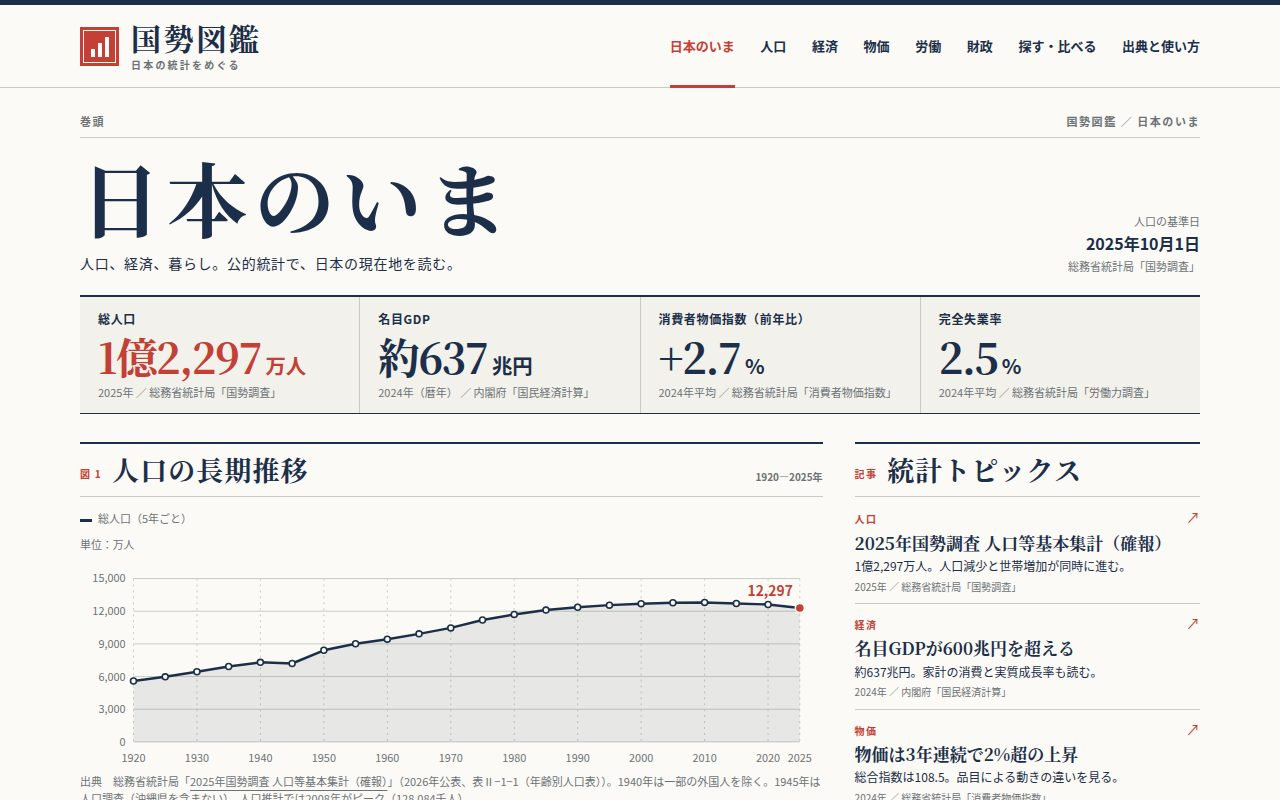
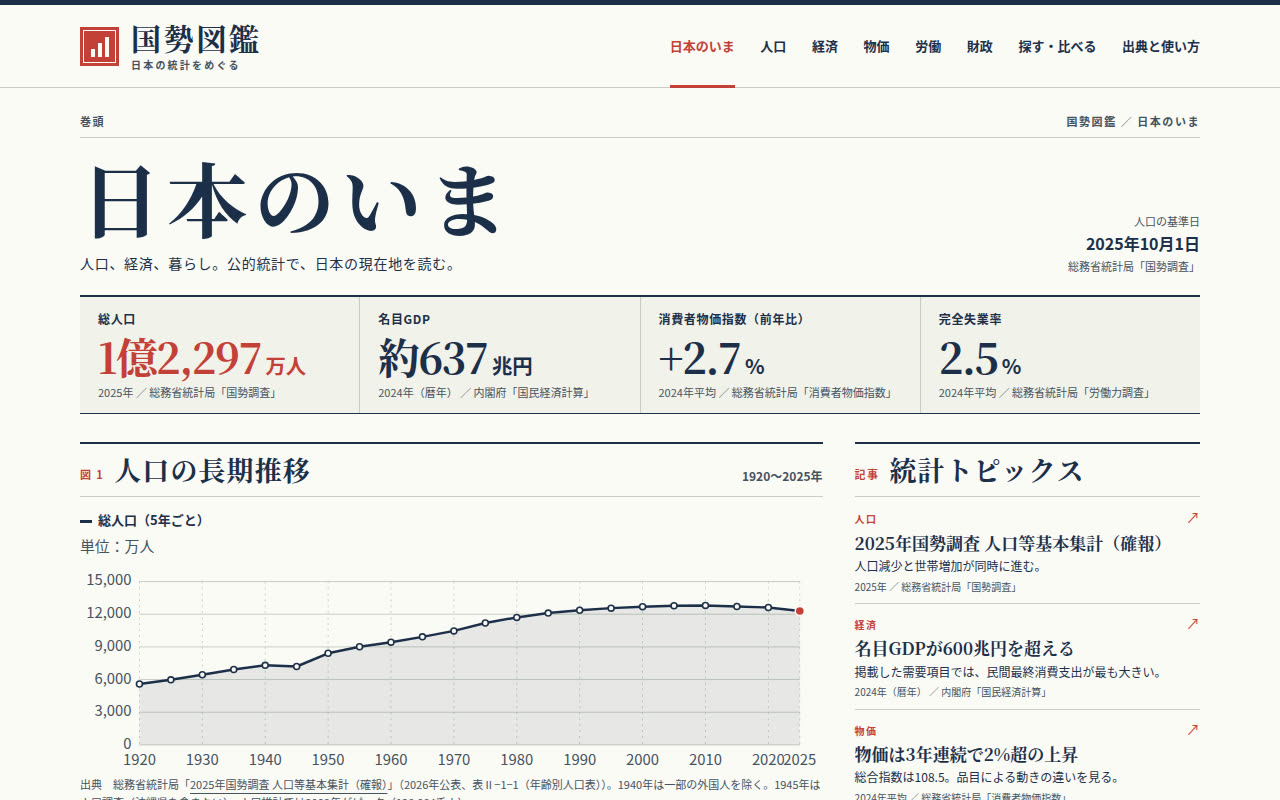
国勢図鑑: Japanese national statistics portal for make.fun bounty
Built by an AI agent (Codex gpt-6.2-sol) in a fresh session after the
competition opened; reviewed by gpt-6.2-astra before submission.

diff --git a/app/views.js b/app/views.js
@@ -24,22 +24,27 @@ const table = (headers, rows, cls='') => `<table class="${cls}"><thead><tr>${hea
 
 export function home() {
   const brief = [f.population, populationBrief+'<span class="unit">万人</span>'];
+  const topicSummaries = [
+    '人口減少と世帯増加が同時に進む。',
+    '掲載した需要項目では、民間最終消費支出が最も大きい。',
+    topics[2][3],
+  ];
   const descriptions = ['国勢調査と人口動態','国内総生産と家計消費','消費者物価と品目別動向','雇用・求人・賃金','国の一般会計予算','指標検索と都道府県比較','公表資料と統計の読み方'];
   return `${heading(0,'日本のいま','人口、経済、暮らし。公的統計で、日本の現在地を読む。','人口の基準日<br><strong>'+censusReferenceDate+'</strong><br>'+sources.census)}
     ${strip([ {...brief[0],note:''}, brief[1]], {...f.gdp,note:''}, f.inflation, f.unemployment)}
     <div class="editorial-grid">
       <section class="chart-panel">
-        ${section('図 1','人口の長期推移','1920—2025年')}
+        ${section('図 1','人口の長期推移','1920〜2025年')}
         ${legend('総人口（5年ごと）')}
         ${line({points:populationTrend.map(([year, count]) => [year, count / 10000]),
           ticks:[0,3000,6000,9000,12000,15000],yearStep:10,unit:'万人',
-          label:'1920年から2025年の総人口、5年ごとに22時点。',endpoint:format(Math.round(populationTrend.at(-1)[1] / 10000))})}
+          label:'1920年から2025年の総人口、5年ごとに22時点。'})}
         ${note(`出典　総務省統計局「<a href="${censusOutline}">${censusRelease}</a>」（2026年公表、${populationTrendTable}）。1940年は${populationTrendScope[1940]}。1945年は${populationTrendScope[1945]}。人口推計では${populationPeak.year}がピーク（${populationPeak.value}${populationPeak.unit}）。`)}
       </section>
       <aside class="topics">
         ${section('記事','統計トピックス')}
-        ${topics.map(([href,tag,title,summary,ref]) => `<a href="#${href}" class="topic"><span class="tag">${tag}</span><span class="arrow" aria-hidden="true">↗</span>
-          <h3>${title}</h3><p>${summary}</p>${note(ref)}</a>`).join('')}
+        ${topics.map(([href,tag,title,,ref], i) => `<a href="#${href}" class="topic"><span class="tag">${tag}</span><span class="arrow" aria-hidden="true">↗</span>
+          <h3>${title}</h3><p>${topicSummaries[i]}</p>${note(i === 1 ? source(f.gdp) : i === 2 ? source(f.inflation) : ref)}</a>`).join('')}
       </aside>
     </div>
     <section class="block">${section('目次','分野から読む')}
@@ -59,18 +64,24 @@ export function population() {
   const latestAgeShares = [f.children, f.workingAge, f.older]
     .map(item => `${item.name.replace('人口割合', '')} ${item.value}${item.unit}`).join('、');
   return `${heading(1,'人口','人口の減少と高齢化を、国勢調査・人口動態統計からたどる。',censusDate)}
-    ${strip(f.population,f.households,f.older)}
+    <div class="chapter-findings">
+      <p><strong>総人口が減少</strong><span>${f.population.note}</span></p>
+      <p><strong>総世帯数が増加</strong><span>${f.households.note}</span></p>
+    </div>
     <div class="editorial-grid chapter-grid">
       <section class="chart-panel">
-        ${section('図 1','年齢構成','1950—2025年')}
-        <div class="legend"><span class="legend-young">0〜14歳</span><span>15〜64歳</span><span class="legend-accent">65歳以上</span></div>
+        ${section('図 1','年齢構成','1950〜2025年')}
+        <div class="age-key">
+          <span>構成比（${f.older.year}）</span>
+          <div class="legend">${[f.children, f.workingAge, f.older].map((item, i) =>
+            `<span class="${['legend-young', '', 'legend-accent'][i]}">${item.name.replace('人口割合', '')} <strong>${item.value}${item.unit}</strong></span>`).join('')}</div>
+        </div>
         ${ageComposition(ageTrend, latestAgeShares)}
-        <p class="annotation">${f.older.year}の構成比　${latestAgeShares}</p>
         ${note(`出典　総務省統計局「<a href="${censusOutline}">${censusRelease}</a>」（2026年公表、表Ⅱ−1−1）。2015年以降は不詳補完値。構成比の分母は年齢が判明している人口。`)}
       </section>
       <aside class="side-panel">
-        ${section('表 1','人口と世帯の内訳')}
-        ${table(['区分','2025年実数','構成比','2020年比（増減率）'],
+        ${section('表 1','人口と世帯の内訳','2025年')}
+        ${table(['区分','実数','構成比','2020年比（増減率）'],
           populationBreakdown.map(([label, current, previous, unit, denominator]) => [
             label,
             `${denominator === null ? current.toFixed(2) : format(current)}<span class="unit">${unit}</span>`,
@@ -81,12 +92,12 @@ export function population() {
         <p class="annotation">${onlyTokyo}</p>
       </aside>
     </div>
-    <section class="block">${section('表 2','出生と死亡','2024年 人口動態統計')}${strip(f.births,f.deaths,f.fertility)}</section>
+    <section class="block">${section('表 2','出生と死亡','2024年')}${strip(f.births,f.deaths,f.fertility)}</section>
     <section class="block">${section('表 3','都道府県人口ランキング','2020年国勢調査')}
       <div class="table-controls"><label>都道府県を検索 <input id="pref-search" type="search" placeholder="例：東京" aria-controls="pref-rows"></label></div>
       <table class="numeric"><thead><tr><th scope="col">順位</th><th scope="col">都道府県</th><th scope="col" id="population-sort" aria-sort="descending"><button type="button" id="sort-prefs">人口（人） <span>↓</span></button></th><th scope="col">調査年</th></tr></thead>
       <tbody id="pref-rows">${prefectureRows()}</tbody></table>
-      ${note(prefectureYear+' ／ '+sources.census+'。'+onlyTokyo+' '+f.ibaraki.year+'の茨城県は'+f.ibaraki.value+f.ibaraki.unit+'。')}
+      ${note(prefectureYear+' ／ '+sources.census+'。'+f.ibaraki.year+'の茨城県は'+f.ibaraki.value+f.ibaraki.unit+'。')}
     </section>`;
 }
 
@@ -100,7 +111,7 @@ export function economy() {
     ${strip(f.gdp,f.real,f.realFiscal)}
     <div class="editorial-grid chapter-grid">
       <section class="chart-panel">
-        ${section('図 1','名目GDPの節目',`${nominal[0][0]}—${lastYear}年`)}
+        ${section('図 1','名目・実質GDPの推移',`${nominal[0][0]}〜${lastYear}年（暦年）`)}
         ${legend('名目GDP','実質GDP（2020年連鎖価格）')}
         ${line({points:nominal,comparison:real,ticks:[500,550,600,650,700],yearStep:2,unit:'兆円',
           label:'暦年の名目GDPと実質GDPの推移。',
@@ -108,7 +119,7 @@ export function economy() {
         ${note(`出典　<a href="${gdpOutline}">${gdpRelease}</a> 時系列表1（暦年、支出側）。掲載期間は2015年以降。1994〜2014年は未掲載（2008年のリーマンショックを含む）。名目GDPは2023年に600兆円を超え、2024年も600兆円台。`)}
       </section>
       <aside class="side-panel">
-        ${section('表 1','GDP需要項目別の内訳','2024年暦年')}
+        ${section('表 1','GDP需要項目別の内訳',f.gdp.year)}
         ${table(['需要項目','実額（兆円）','GDP比','前年比'],gdpDemand.map(([label, current, previous]) => [
           label, (current / 1000).toFixed(2).replace('-', '−'),
           (current / nominalTotal * 100).toFixed(1).replace('-', '−') + '%',
@@ -126,19 +137,18 @@ export function economy() {
 export function prices() {
   const rows = [f.cereals,f.energy,f.total,f.core].map(item => ({label:item.name,value:Number(item.value),display:item.value+'%',accent:item===f.cereals}));
   return `${heading(3,'物価','家計が購入する商品やサービスの価格の動きを見る。',cpiBase)}
-    ${strip(f.inflation,f.total,f.core)}
     <div class="editorial-grid chapter-grid">
-      <section class="chart-panel">${section('図 1','消費者物価指数の推移','2020—2024年')}
+      <section class="chart-panel">${section('図 1','消費者物価指数の推移','2020〜2024年（年平均）')}
         ${legend('総合指数（年平均）')}
-        ${line({points:cpiTrend,ticks:[98,100,102,104,106,108,110],unit:cpiBase,label:'消費者物価指数は2020年の100.0から2024年の108.5へ。',endpoint:cpiTrend.at(-1)[1].toFixed(1)})}
+        ${line({points:cpiTrend,ticks:[98,100,102,104,106,108,110],unit:cpiBase,label:'消費者物価指数は2020年の100.0から2024年の108.5へ。'})}
         ${note('出典　'+sources.cpi+'（各年平均、'+cpiBase+'）')}
       </section>
-      <section class="side-panel">${section('図 2','品目別の上昇率','2024年度')}
+      <section class="side-panel">${section('図 2','品目別の上昇率',f.cereals.year)}
         ${legend('前年度比','穀類')}${bars(rows,[0,4,8,12,16],'%')}
         ${note(source(f.cereals)+'。コアは生鮮食品を除く総合。')}
       </section>
     </div>
-    <section class="block">${section('表 1','年平均の指数と前年比')}
+    <section class="block">${section('表 1','年平均の指数と前年比','2020〜2024年')}
       ${table(['年','指数（'+cpiBase+'）','前年比（%）'],cpiTrend.map(([year,index,change])=>[year+'年',index.toFixed(1),change===null?'掲載期間外':sign(change)]),'numeric')}
       ${note('出典　'+sources.cpi+'（各年平均）')}
     </section>`;
@@ -146,13 +156,18 @@ export function prices() {
 
 export function labor() {
   return `${heading(4,'労働','仕事を探す人、求人、賃上げの動きを見る。')}
-    ${strip(f.unemployment,f.jobs,f.wage)}
     <div class="editorial-grid chapter-grid">
-      <section class="chart-panel">${section('表 1','雇用指標と対象期間')}
-        ${table(['指標','対象期間','値','出典'],[f.unemployment,f.jobs,f.wage].map(item=>[item.name,item.year,value(item),sources[item.source]]),'labor-table')}
+      <section class="chart-panel">${section('表 1','雇用指標の比較')}
+        ${table(['指標','前年の値・対象期間','最新の値・対象期間','出典'],
+          [[f.unemployment2023, f.unemployment], [f.jobs2023, f.jobs], [null, f.wage]].map(([previous, item]) => [
+            item.name,
+            previous ? value(previous) + `<small>${previous.year}</small>` : '前年の集計値は掲載外',
+            value(item) + `<small>${item.year}</small>`,
+            sources[item.source],
+          ]), 'labor-table')}
       </section>
       <aside class="side-panel prose">${section('解説','推移を見るとき')}
-        <p>完全失業率は${f.unemployment2023.year}の${value(f.unemployment2023)}から${f.unemployment.year}の${value(f.unemployment)}へ。有効求人倍率は${f.jobs2023.year}の${value(f.jobs2023)}から${f.jobs.year}の${value(f.jobs)}へ低下しました。</p>
+        <p>完全失業率と有効求人倍率は、掲載した期間の比較でともに低下しました。</p>
         ${note(sources.labor+' ／ '+sources.jobs)}
         <p>失業率の年平均と求人倍率の年度平均では、集計期間がずれます。前年との推移は同じ指標・同じ期間で比べ、月ごとの動きを比べる場合は季節調整値を確認します。</p>
         <p>求人倍率が1倍を上回ると、公共職業安定所で扱う有効求人の数が有効求職者の数を上回ります。</p>
@@ -168,14 +183,16 @@ export function labor() {
 export function fiscal() {
   const share = Math.round(parseFloat(f.social.value.slice(1)) / budgetTrend.at(-1)[1] * 100);
   return `${heading(5,'財政','国の一般会計当初予算から、歳出の規模と使い道を見る。')}
-    ${strip(f.budget,f.budget2024,f.social)}
     <div class="editorial-grid chapter-grid">
       <section class="chart-panel">${section('図 1','一般会計歳出の規模','当初予算')}
         ${legend('歳出総額（概数）','2025年度')}
-        ${bars(budgetTrend.map(([year,value],i)=>({label:year+'年度',value,display:value+'兆円',accent:i===1})),[0,30,60,90,120],'兆円')}
-        ${note('出典　'+sources.budget+'（2024・2025年度）')}
+        ${bars(budgetTrend.map(([, amount], i) => {
+          const item = [f.budget2024, f.budget][i];
+          return {label:item.year, value:amount, display:item.value+item.unit, accent:i===1};
+        }),[0,30,60,90,120],'兆円')}
+        ${note('出典　'+sources.budget+'（2024・2025年度）')}${note(f.budget.year+'は'+f.budget.note+'。')}
       </section>
-      <section class="side-panel">${section('図 2','社会保障関係費の割合')}
+      <section class="side-panel">${section('図 2','社会保障関係費の割合',f.social.year)}
         ${donut(share,'約'+share+'%','社会保障関係費')}
         ${legend('社会保障関係費','その他の歳出','fiscal-other')}
         ${note(source(f.social)+'。歳出総額に占める概算。')}
@@ -195,9 +212,10 @@ export function fiscal() {
     </section>`;
 }
 
-export function indicatorRows(query = '') {
+export function indicatorRows(query = '', category = '') {
   const terms = query.normalize('NFKC').toLowerCase().trim().split(/\s+/);
   const found = indicatorIndex.filter(item => {
+    if (category && item.field !== category) return false;
     const field = sections.find(([route]) => route === '/'+item.field)?.[1];
     const text = [field,item.name,item.value,item.unit,item.year,sources[item.source],item.note].join(' ').normalize('NFKC').toLowerCase();
     return terms.every(term => text.includes(term));
@@ -206,7 +224,7 @@ export function indicatorRows(query = '') {
     count: found.length,
     html: found.length ? found.map(item => `<tr><th scope="row"><a href="#/${item.field}">${item.name}</a></th>
       <td>${value(item)}${item.note ? `<small>${item.note}</small>` : ''}</td><td>${item.year}</td><td>${sources[item.source]}</td></tr>`).join('')
-      : '<tr><td colspan="4" class="empty">一致する指標がありません。「人口」「物価」「2024年」などで検索してください。</td></tr>',
+      : '<tr><td colspan="4" class="empty">一致する指標がありません。分野または検索語を変更してください。</td></tr>',
   };
 }
 
@@ -220,14 +238,18 @@ export function explore() {
   const select = (id,label,current) => `<label>${label}<select id="${id}">${prefectures.map(([name],i) => `<option value="${i}" ${i===current?'selected':''}>${name}</option>`).join('')}</select></label>`;
   const results = indicatorRows();
   return `${heading(6,'探す・比べる','分野を横断して指標を探す。都道府県を二つ選び、人口を比べる。')}
-    <section class="block">${section('比較','都道府県の人口','2020年国勢調査')}
+    <section class="block">${section('図 1','都道府県の人口','2020年国勢調査')}
       <div class="table-controls">${select('pref-a','都道府県 A',0)}${select('pref-b','都道府県 B',2)}</div>
       <div id="comparison" aria-live="polite">${comparison(0,2)}</div>
     </section>
-    <section class="block">${section('検索','指標索引')}
+    <section class="block">${section('表 1','指標索引')}
       <div class="table-controls"><label>キーワード <input id="indicator-search" type="search" placeholder="例：人口 2025年" aria-controls="indicator-rows"></label>
+        <label>分野 <select id="indicator-field" aria-controls="indicator-rows">
+          <option value="">すべての分野</option>
+          ${sections.slice(1, 6).map(([route, name]) => `<option value="${route.slice(1)}">${name}</option>`).join('')}
+        </select></label>
         <output id="result-count" aria-live="polite">${results.count}件</output></div>
-      <table class="indicator-table"><thead><tr><th scope="col">指標</th><th scope="col">値</th><th scope="col">対象時点</th><th scope="col">出典</th></tr></thead>
+      <table class="indicator-table"><thead><tr><th scope="col">指標</th><th scope="col">値</th><th scope="col">対象時点・期間</th><th scope="col">出典</th></tr></thead>
         <tbody id="indicator-rows">${results.html}</tbody></table>
     </section>`;
 }
@@ -244,6 +266,6 @@ export function about() {
     </section>
     <section class="block prose">${section('案内','サイトの使い方')}
       <p>目次から分野を開き、図表の単位・対象時点・出典を確認します。都道府県の表は地名で絞り込み、人口列の見出しで並べ替えられます。</p>
-      <p><a href="#/explore">「探す・比べる」</a>では複数の語を空白で区切って検索でき、都道府県を選んで人口を比較できます。出典一覧のリンクから公表元の資料を確認できます。</p>
+      <p><a href="#/explore">「探す・比べる」</a>では分野で絞り込めます。複数の検索語は空白で区切ります。また、都道府県を選んで人口を比較できます。出典一覧のリンクから公表元の資料を確認できます。</p>
     </section>`;
 }

diff --git a/app/style.css b/app/style.css
@@ -4,7 +4,7 @@
   --ink: oklch(0.30 0.055 258);
   --red: oklch(0.56 0.17 28);
   --gold: oklch(0.74 0.12 82);
-  --slate: oklch(0.55 0.01 250);
+  --slate: oklch(0.43 0.026 250);
   --rule: color-mix(in oklch, var(--ink) 21%, var(--paper));
   --wash: color-mix(in oklch, var(--ink) 4%, var(--paper));
   --serif: "Hiragino Mincho ProN", "Yu Mincho", YuMincho, "Noto Serif CJK JP", "IPA P明朝", "IPA Mincho", serif;
@@ -58,16 +58,16 @@ td .unit, .prose .unit { font-size: .8em; }
 .chart-panel, .topics, .side-panel, .block { min-width: 0; border-top: 2px solid var(--ink); }
 .section-head { display: flex; align-items: baseline; justify-content: space-between; gap: 8px; border-bottom: 1px solid var(--rule); padding: 8px 0; margin-bottom: 12px; }
 .section-head h2 { font: 800 clamp(19px, 2.1vw, 27px)/1.35 var(--serif); letter-spacing: .045em; }
-.section-head h2 span { color: var(--red); font: 700 10px/1 var(--sans); white-space: nowrap; letter-spacing: .13em; vertical-align: middle; margin-right: 10px; }
-.section-aside { color: var(--slate); font-size: 10px; font-weight: 700; white-space: nowrap; }
-.legend { color: var(--slate); display: flex; flex-wrap: wrap; font-size: 11px; gap: 8px 18px; margin: 4px 0; }
+.section-head h2 span { color: var(--red); font: 700 11px/1 var(--sans); white-space: nowrap; letter-spacing: .13em; vertical-align: middle; margin-right: 10px; }
+.section-aside { color: var(--slate); font-size: 12px; font-weight: 700; white-space: nowrap; }
+.legend { color: var(--ink); display: flex; flex-wrap: wrap; font-size: 13px; font-weight: 700; gap: 8px 18px; margin: 4px 0; }
 .legend span::before { content: ""; width: 12px; height: 3px; background: var(--ink); display: inline-block; vertical-align: middle; margin-right: 6px; }
 .legend .legend-accent::before { background: var(--red); }
 .line { display: block; width: 100%; height: auto; overflow: visible; }
 .compact { display: none; }
 .grid { stroke: var(--rule); stroke-width: 1; }
 .vertical { stroke-dasharray: 2 4; }
-.axis, .peak-label, .end-label { font-family: var(--sans); font-size: 11px; fill: var(--slate); }
+.axis, .peak-label, .end-label { font-family: var(--sans); font-size: 15px; fill: var(--slate); }
 .chart-fill { fill: color-mix(in oklch, var(--ink) 9%, transparent); }
 .chart-stroke { fill: none; stroke: var(--ink); stroke-width: 2.5; stroke-linejoin: round; }
 .dot { stroke: var(--ink); stroke-width: 1.6; fill: var(--paper); }
@@ -101,18 +101,17 @@ input, select { border: 1px solid var(--rule); padding: 8px 12px; background: va
 #sort-prefs { border: 0; background: none; padding: 2px 0; font-weight: 700; }
 #sort-prefs span { color: var(--red); }
 .empty { text-align: center !important; padding: 24px; color: var(--slate); }
-.bars { --bar-label: minmax(100px, 1fr); display: grid; gap: 0; margin: 10px 0 14px; }
+.bars { --bar-label: minmax(100px, 1fr); --bar-value: 110px; display: grid; gap: 0; margin: 10px 0 14px; }
 .bar-axis, .bar-row { display: grid; grid-template-columns: var(--bar-label) minmax(0, 3fr); align-items: center; gap: 12px; }
-.bar-axis { color: var(--slate); font-size: 10px; }
-.bar-axis > div { display: flex; justify-content: space-between; margin-right: 90px; }
+.bar-axis { color: var(--slate); font-size: 12px; }
+.bar-axis > div { display: flex; justify-content: space-between; margin-right: calc(var(--bar-value) + 8px); }
 .bar-row { border-bottom: 1px solid var(--rule); min-height: 48px; font-weight: 700; font-size: 13px; }
-.bar-track { display: grid; grid-template-columns: minmax(0, 1fr) 82px; gap: 8px; align-items: center; }
+.bar-track { display: grid; grid-template-columns: minmax(0, 1fr) var(--bar-value); gap: 8px; align-items: center; }
 .bar-track svg { width: 100%; height: 26px; overflow: visible; }
 .bar-track strong { text-align: right; white-space: nowrap; }
 .bar-ink { fill: var(--ink); }
 .bar-accent { fill: var(--red); }
-.side-panel .bar-axis > div { margin-right: 48px; }
-.side-panel .bar-track { grid-template-columns: minmax(0, 1fr) 40px; }
+.side-panel .bars { --bar-value: 52px; }
 .donut { width: 155px; display: block; margin: 0 auto 8px; }
 .donut-base, .donut-value { fill: none; stroke-width: 17; }
 .donut-base { stroke: var(--gold); }
@@ -140,6 +139,7 @@ input, select { border: 1px solid var(--rule); padding: 8px 12px; background: va
   nav a { font-size: 11px; }
   .brand { font-size: 24px; }
   .editorial-grid { gap: 20px; }
+  .chapter-grid { grid-template-columns: minmax(0,1fr); }
 }
 @media (max-width: 680px) {
   .wrap { width: calc(100% - 32px); }
@@ -167,11 +167,11 @@ input, select { border: 1px solid var(--rule); padding: 8px 12px; background: va
   .section-head { margin-bottom: 7px; }
   .wide { display: none; }
   .compact { display: block; }
-  .compact .axis { font-size: 10px; }
+  .compact .axis, .compact .peak-label { font-size: 12px; }
   .foot { flex-wrap: wrap; row-gap: 6px; }
   .foot p { order: 3; flex-basis: 100%; }
   th, td { padding: 7px 4px; font-size: 11px; }
-  .bar-row { font-size: 11px; }
+  .bar-row, .bar-axis { font-size: 12px; }
   .bar-axis, .bar-row { grid-template-columns: minmax(72px, 1fr) minmax(0, 3fr); }
   .prose dl { grid-template-columns: minmax(100px, 1fr) minmax(0, 2fr); }
 }
@@ -186,3 +186,28 @@ input, select { border: 1px solid var(--rule); padding: 8px 12px; background: va
 .age-grid { stroke: var(--paper); opacity: .55; }
 .detail-table th, .detail-table td { padding-inline: 5px; }
 .detail-table td { white-space: nowrap; }
+.chapter-findings {
+  display: grid;
+  grid-template-columns: repeat(2, minmax(0, 1fr));
+  background: var(--wash);
+  border-block: 2px solid var(--ink);
+}
+.chapter-findings p { padding: 10px 16px; }
+.chapter-findings p + p { border-left: 1px solid var(--rule); }
+.chapter-findings strong {
+  display: block;
+  color: var(--red);
+  font: 800 clamp(18px, 2.1vw, 25px)/1.25 var(--serif);
+}
+.chapter-findings span { display: block; margin-top: 3px; font-size: 12px; font-weight: 700; }
+.age-key { margin-bottom: 9px; }
+.age-key > span { color: var(--slate); font-size: 12px; font-weight: 700; }
+.age-key .legend strong { margin-inline-start: 3px; font-size: 16px; }
+.legend .legend-accent strong { color: var(--red); }
+.labor-table td:nth-child(2), .labor-table td:nth-child(3) { font-weight: 700; }
+.labor-table td small { white-space: nowrap; }
+@media (max-width: 400px) {
+  .section-head { flex-wrap: wrap; column-gap: 10px; row-gap: 2px; }
+  .detail-table { font-size: 11px; }
+  .detail-table th, .detail-table td { padding-inline: 3px; }
+}

diff --git a/app/charts.js b/app/charts.js
@@ -4,7 +4,7 @@ export function line({ points, ticks, unit, label, endpoint, comparison, pins = 
   function draw(compact) {
     const width = compact ? 350 : 750;
     const height = compact ? 236 : 244;
-    const left = compact ? 47 : 54;
+    const left = compact ? 51 : 60;
     const right = width - 23;
     const top = 47;
     const bottom = height - 32;
@@ -33,7 +33,7 @@ export function line({ points, ticks, unit, label, endpoint, comparison, pins = 
       <path class="chart-stroke" d="${path}"/>
       ${coords.slice(0,-1).map(([a,b]) => `<circle class="dot" cx="${a}" cy="${b}" r="3"/>`).join('')}
       ${pins.map(([year, value, text, align], index) => {
-        const labelY = compact && index === 0 ? 40 : 25;
+        const labelY = compact && index === 0 ? 39 : 24;
         return `<path class="peak-guide" d="M${x(year)} ${y(value)} V${labelY + 4}"/>
           <circle class="peak" cx="${x(year)}" cy="${y(value)}" r="4"/>
           <text class="peak-label" x="${x(year)}" y="${labelY}" text-anchor="${align}">${text}</text>`;
@@ -48,7 +48,7 @@ export function line({ points, ticks, unit, label, endpoint, comparison, pins = 
 export function ageComposition(rows, latestAgeShares) {
   function draw(compact) {
     const width = compact ? 350 : 750;
-    const left = 40;
+    const left = compact ? 44 : 52;
     const right = width - 22;
     const top = 14;
     const bottom = 202;
@@ -67,7 +67,7 @@ export function ageComposition(rows, latestAgeShares) {
       }).join('')}
       ${[0, 25, 50, 75, 100].map(tick => `<line class="grid age-grid" x1="${left}" x2="${right}" y1="${y(tick / 100)}" y2="${y(tick / 100)}"/>
         <text class="axis" x="${left - 7}" y="${y(tick / 100) + 4}" text-anchor="end">${tick}%</text>`).join('')}
-      ${rows.map(([year], index) => index === rows.length - 1 || index % (compact ? 4 : 2) === 0
+      ${rows.map(([year], index) => index === rows.length - 1 || (index < rows.length - 2 && index % (compact ? 4 : 2) === 0)
         ? `<text class="axis" x="${x(index)}" y="${bottom + 20}" text-anchor="middle">${year}</text>` : '').join('')}
     </svg>`;
   }

diff --git a/app/main.js b/app/main.js
@@ -63,15 +63,20 @@ document.addEventListener('keydown', event => {
 });
 matchMedia('(max-width: 680px)').addEventListener('change', () => setMenu(false));
 
+function updateIndicators() {
+  const query = document.querySelector('#indicator-search').value;
+  const category = document.querySelector('#indicator-field').value;
+  const {html, count} = views.indicatorRows(query, category);
+  document.querySelector('#indicator-rows').innerHTML = html;
+  document.querySelector('#result-count').textContent = count+'件';
+}
+
 document.addEventListener('input', event => {
   if (event.target.id === 'pref-search') updatePrefectures();
-  if (event.target.id === 'indicator-search') {
-    const {html,count} = views.indicatorRows(event.target.value);
-    document.querySelector('#indicator-rows').innerHTML = html;
-    document.querySelector('#result-count').textContent = count+'件';
-  }
+  if (event.target.id === 'indicator-search') updateIndicators();
 });
 document.addEventListener('change', event => {
+  if (event.target.id === 'indicator-field') updateIndicators();
   if (event.target.matches('#pref-a, #pref-b')) {
     const a = Number(document.querySelector('#pref-a').value);
     const b = Number(document.querySelector('#pref-b').value);
